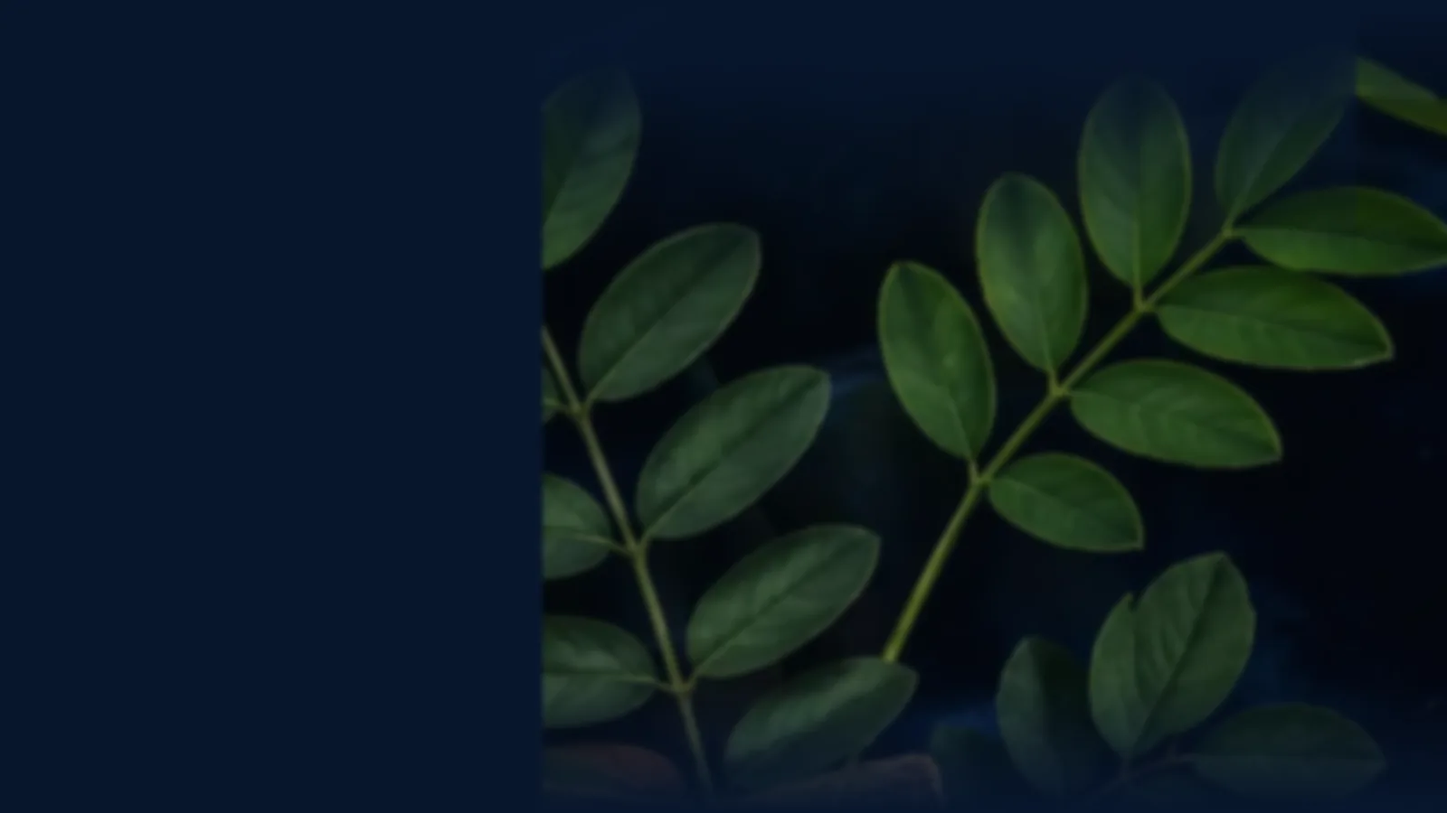
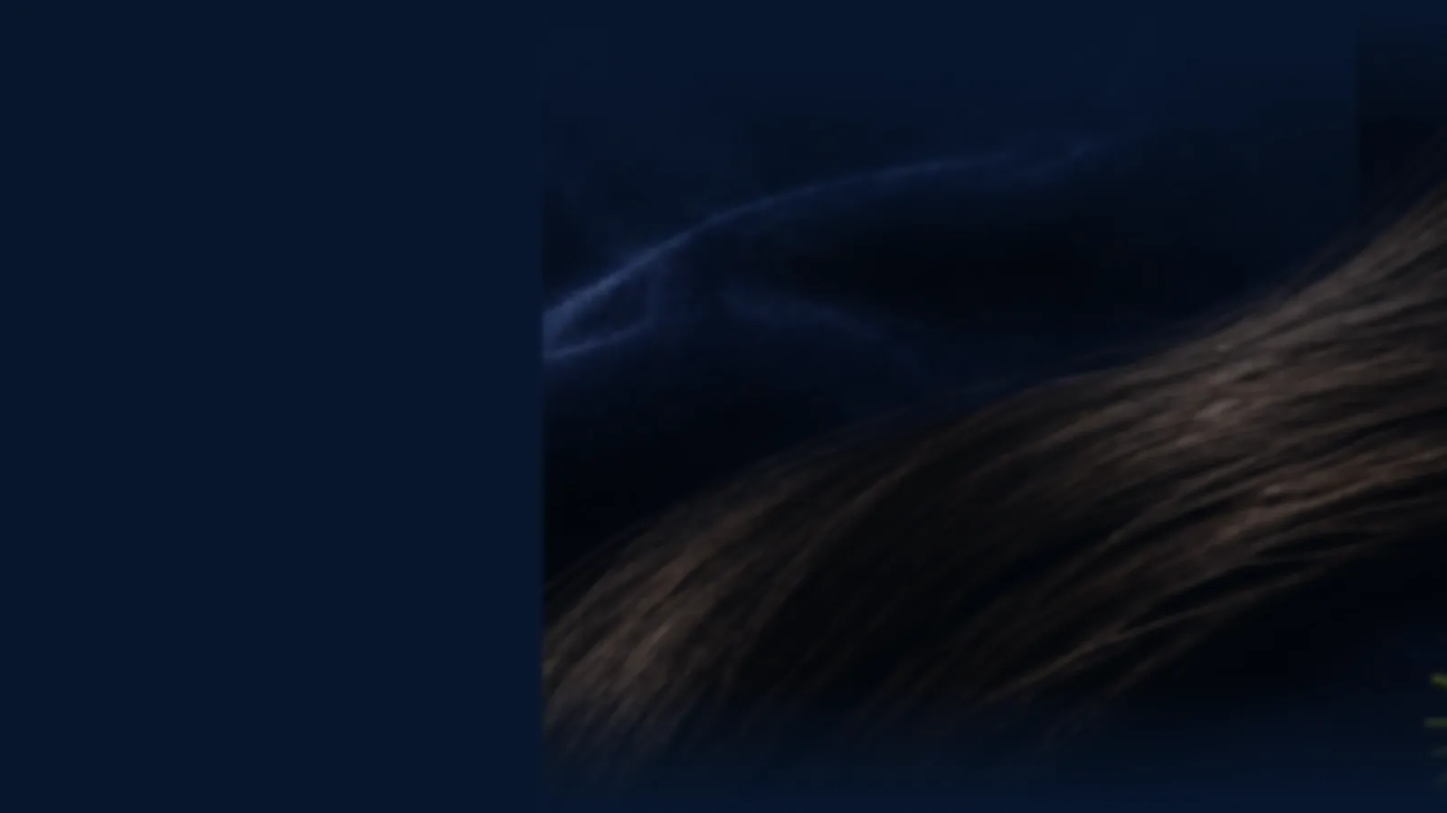
hair-scalp: убраны растения у семи блоков, Sunpure получил свой статус
Второй разбор Codex по 50121cf. Проверил каждый пункт сам, все верны.

1. Растение рядом с названием компании читается как связь этого сырья
   с этой компанией: пустой alt и оговорка в манифесте посетителю не
   видны. Раньше я убрал только солодку у DONGDONGGURIMOO и заменил
   бабчи у RNH BIO на цветы куркумы — то есть повторил ту же ошибку в
   меньшем масштабе. Теперь растения нет ни у одного из семи блоков:
   ампула и пипетка, золотой аппликатор, серебряный поднос с гребнем,
   пряди волос, волна волос, серебряный гребень, волосы на бархате.
   Куркума осталась только у Sunpure — у них в каталоге есть
   Tetrahydrocurcumin с Curcuma Longa (Turmeric) Rhizome и Turmeric Oil.

   Мастер для нейтральных вырезов нарисовал Codex, снят на том же синем
   бархате; лежит в его evidence и в сборку не попадает — скрипт ищет
   каталог вверх по дереву, чтобы работать и из worktree.

2. «Нет позиций» и «нет фотографий» — разные состояния, и путать их
   нельзя. У HEEYUL линия есть, состав не передан. У Sunpure в профиле
   37 позиций сырья в пяти линиях, нет только фотографий материалов.
   Добавлены ключи in_profile и no_shots во все одиннадцать локалей,
   счётчик без лишнего пробела в CJK.

Проверено: девять размеров включая 1920 — чисто; 11 локалей × 4 размера
= 44 из 44 чисто; витрина и главная не изменились против origin/main;
на 390 сняты начало, середина и конец каждого из восьми блоков —
в блоках без плашек разброс пикселей 27–65 против нуля у плоской заливки.

diff --git a/src/i18n/locales/ru.ts b/src/i18n/locales/ru.ts
@@ -427,6 +427,8 @@ export const ru = {
       lead_routine: "Четыре шага домашнего ухода",
       lead_pro: "Профессиональная линия",
       no_positions: "Позиции не опубликованы. Состав линии присылаем по запросу.",
+      in_profile: "позиций сырья в профиле",
+      no_shots: "Фотографии материалов не опубликованы. Спецификации подтверждаем по запросу.",
       articles_h: "Статьи по теме",
       art_overview: "Обзор направления",
       art_actives: "Действующие вещества",

diff --git a/src/i18n/locales/es.ts b/src/i18n/locales/es.ts
@@ -348,6 +348,8 @@ const es: DeepPartial<UIDict> = {
       lead_routine: "Cuatro pasos de la rutina en casa",
       lead_pro: "Línea profesional",
       no_positions: "Los productos no están publicados. Enviamos la composición de la línea a petición.",
+      in_profile: "posiciones de materia prima en el perfil",
+      no_shots: "Las fotos de los materiales no están publicadas. Confirmamos las especificaciones a petición.",
       articles_h: "Artículos relacionados",
       art_overview: "Panorama de la categoría",
       art_actives: "Ingredientes activos",

diff --git a/src/i18n/locales/fr.ts b/src/i18n/locales/fr.ts
@@ -309,6 +309,8 @@ const fr: DeepPartial<UIDict> = {
       lead_routine: "Quatre étapes de la routine à la maison",
       lead_pro: "Ligne professionnelle",
       no_positions: "Les produits ne sont pas publiés. Nous envoyons la composition de la ligne sur demande.",
+      in_profile: "positions de matières premières dans le profil",
+      no_shots: "Les photos des matières ne sont pas publiées. Nous confirmons les spécifications sur demande.",
       articles_h: "Articles liés",
       art_overview: "Panorama de la catégorie",
       art_actives: "Actifs",

diff --git a/src/i18n/locales/pt.ts b/src/i18n/locales/pt.ts
@@ -376,6 +376,8 @@ export const pt: UIDict = {
       lead_routine: "Quatro passos da rotina em casa",
       lead_pro: "Linha profissional",
       no_positions: "Os itens não estão publicados. Enviamos a composição da linha mediante pedido.",
+      in_profile: "posições de matéria-prima no perfil",
+      no_shots: "As fotos dos materiais não estão publicadas. Confirmamos as especificações mediante solicitação.",
       articles_h: "Artigos relacionados",
       art_overview: "Panorama da categoria",
       art_actives: "Ingredientes ativos",

diff --git a/src/i18n/locales/ja.ts b/src/i18n/locales/ja.ts
@@ -309,6 +309,8 @@ const ja: DeepPartial<UIDict> = {
       lead_routine: "ホームケアの四段階",
       lead_pro: "プロ向けライン",
       no_positions: "品目は公開されていません。ライン構成はご請求に応じてお送りします。",
+      in_profile: "件の原料をプロフィールに掲載",
+      no_shots: "原料の写真は公開していません。仕様はご請求により確認します。",
       articles_h: "関連記事",
       art_overview: "カテゴリー概観",
       art_actives: "有効成分",

diff --git a/src/i18n/locales/it.ts b/src/i18n/locales/it.ts
@@ -317,6 +317,8 @@ const it: DeepPartial<UIDict> = {
       lead_routine: "Quattro passaggi della routine a casa",
       lead_pro: "Linea professionale",
       no_positions: "I prodotti non sono pubblicati. Inviamo la composizione della linea su richiesta.",
+      in_profile: "posizioni di materie prime nel profilo",
+      no_shots: "Le foto dei materiali non sono pubblicate. Confermiamo le specifiche su richiesta.",
       articles_h: "Articoli correlati",
       art_overview: "Panoramica della categoria",
       art_actives: "Ingredienti attivi",

diff --git a/src/i18n/locales/de.ts b/src/i18n/locales/de.ts
@@ -317,6 +317,8 @@ const de: DeepPartial<UIDict> = {
       lead_routine: "Vier Schritte der Heimpflege",
       lead_pro: "Professionelle Linie",
       no_positions: "Die Produkte sind nicht veröffentlicht. Den Aufbau der Linie senden wir auf Anfrage.",
+      in_profile: "Rohstoffpositionen im Profil",
+      no_shots: "Fotos der Materialien sind nicht veröffentlicht. Spezifikationen bestätigen wir auf Anfrage.",
       articles_h: "Passende Beiträge",
       art_overview: "Überblick über die Kategorie",
       art_actives: "Wirkstoffe",

diff --git a/src/i18n/locales/ko.ts b/src/i18n/locales/ko.ts
@@ -363,6 +363,8 @@ export const ko: UIDict = {
       lead_routine: "홈케어 4단계",
       lead_pro: "전문가용 라인",
       no_positions: "품목은 공개되어 있지 않습니다. 라인 구성은 요청 시 보내 드립니다.",
+      in_profile: "개 원료 품목이 프로필에 있습니다",
+      no_shots: "원료 사진은 공개하지 않습니다. 사양은 요청 시 확인해 드립니다.",
       articles_h: "관련 자료",
       art_overview: "분야 개관",
       art_actives: "유효 성분",

diff --git a/src/i18n/locales/tr.ts b/src/i18n/locales/tr.ts
@@ -317,6 +317,8 @@ const tr: DeepPartial<UIDict> = {
       lead_routine: "Ev bakımının dört adımı",
       lead_pro: "Profesyonel seri",
       no_positions: "Ürünler yayımlanmadı. Seri içeriğini talep üzerine gönderiyoruz.",
+      in_profile: "hammadde kalemi profilde",
+      no_shots: "Malzeme fotoğrafları yayımlanmıyor. Spesifikasyonları talep üzerine teyit ediyoruz.",
       articles_h: "İlgili yazılar",
       art_overview: "Kategoriye genel bakış",
       art_actives: "Etken maddeler",

diff --git a/src/i18n/locales/en.ts b/src/i18n/locales/en.ts
@@ -376,6 +376,8 @@ export const en: UIDict = {
       lead_routine: "Four steps of the home routine",
       lead_pro: "Professional line",
       no_positions: "Items are not published. We send the line composition on request.",
+      in_profile: "raw-material positions in the profile",
+      no_shots: "Material photos are not published. We confirm specifications on request.",
       articles_h: "Related articles",
       art_overview: "Category overview",
       art_actives: "Active ingredients",

diff --git a/src/i18n/locales/zh.ts b/src/i18n/locales/zh.ts
@@ -317,6 +317,8 @@ const zh: DeepPartial<UIDict> = {
       lead_routine: "居家护理四步",
       lead_pro: "专业线",
       no_positions: "品项尚未公开。产品线构成可应要求索取。",
+      in_profile: "项原料收录于档案",
+      no_shots: "原料照片未公开。规格可应要求确认。",
       articles_h: "相关文章",
       art_overview: "品类综述",
       art_actives: "活性成分",

diff --git a/docs/IMAGERY-MANIFEST.md b/docs/IMAGERY-MANIFEST.md
@@ -12,13 +12,13 @@
 | `hair-1600.webp`, `hair-900.webp` | `generated-editorial` | там же, мастер `hair-care-desktop-codex-v1.png`, SHA-256 `b5138498…09365b` | вход в подборку «Волосы и кожа головы» |
 | `oemline-1600.webp`, `oemline-900.webp` | `generated-editorial` | там же, мастер `oem-odm-desktop-codex-v1.png`, SHA-256 `35aa02b0…3860f856` | общий рассказ о контрактном производстве. **Нельзя** подписывать как завод или лабораторию конкретного поставщика |
 | `brands.webp`, `pro.webp`, `actives.webp`, `packaging.webp`, `care.webp`, `launch.webp` | `official-derived` | мозаика из настоящих снимков товара поставщиков, собирается `scripts/beauty-scenes.mjs` из `public/img/suppliers` | фон раздела. Кадры настоящие, но смешаны из разных компаний, поэтому подписывать конкретной маркой нельзя |
-| `company-ck-regeon.webp` (21 KB, SHA-256 `a8151bfe6717…`) | `generated-editorial` | вырез из `hair-1600.webp`: поднос с ампулой и пипеткой | подложка блока компании на `/catalog/hair-scalp/`. **Нельзя** подписывать как съёмку этой компании, её товара или её производства |
+| `company-ck-regeon.webp` (19 KB, SHA-256 `bf2c52abc2f3…`) | `generated-editorial` | вырез из `hair-1600.webp`: ампула и пипетка | подложка блока компании на `/catalog/hair-scalp/`. **Нельзя** подписывать как съёмку этой компании, её товара или её производства |
 | `company-dongdonggurimoo.webp` (20 KB, SHA-256 `790b7cee7e21…`) | `generated-editorial` | вырез из `hair-1600.webp`: серебряный поднос и гребень | подложка блока компании на `/catalog/hair-scalp/`. **Нельзя** подписывать как съёмку этой компании, её товара или её производства |
-| `company-dreamcos.webp` (18 KB, SHA-256 `5068c6bf994a…`) | `generated-editorial` | вырез из `licorice-900.webp`: зелёные листья | подложка блока компании на `/catalog/hair-scalp/`. **Нельзя** подписывать как съёмку этой компании, её товара или её производства |
-| `company-hanscos.webp` (12 KB, SHA-256 `6c61de3dfc5b…`) | `generated-editorial` | вырез из `hair-1600.webp`: розмарин на бархате | подложка блока компании на `/catalog/hair-scalp/`. **Нельзя** подписывать как съёмку этой компании, её товара или её производства |
-| `company-rnh-bio.webp` (17 KB, SHA-256 `6a3291a0bfa1…`) | `generated-editorial` | вырез из `turmeric-900.webp`: цветы и листья, без корня | подложка блока компании на `/catalog/hair-scalp/`. **Нельзя** подписывать как съёмку этой компании, её товара или её производства |
-| `company-sante.webp` (13 KB, SHA-256 `b03367fd61b6…`) | `generated-editorial` | вырез из `hair-1600.webp`: волна волос | подложка блока компании на `/catalog/hair-scalp/`. **Нельзя** подписывать как съёмку этой компании, её товара или её производства |
-| `company-skinroom.webp` (24 KB, SHA-256 `6151fbe1e8da…`) | `generated-editorial` | вырез из `babchi-900.webp`: золотой папоротник | подложка блока компании на `/catalog/hair-scalp/`. **Нельзя** подписывать как съёмку этой компании, её товара или её производства |
+| `company-dreamcos.webp` (14 KB, SHA-256 `6dc286ca6e06…`) | `generated-editorial` | вырез из `hair-editorial-alternate-codex-v1.png`: пряди волос | подложка блока компании на `/catalog/hair-scalp/`. **Нельзя** подписывать как съёмку этой компании, её товара или её производства |
+| `company-hanscos.webp` (20 KB, SHA-256 `23efadd53248…`) | `generated-editorial` | вырез из `hair-editorial-alternate-codex-v1.png`: серебряный гребень | подложка блока компании на `/catalog/hair-scalp/`. **Нельзя** подписывать как съёмку этой компании, её товара или её производства |
+| `company-rnh-bio.webp` (17 KB, SHA-256 `c58714251be4…`) | `generated-editorial` | вырез из `hair-editorial-alternate-codex-v1.png`: золотой аппликатор для кожи головы | подложка блока компании на `/catalog/hair-scalp/`. **Нельзя** подписывать как съёмку этой компании, её товара или её производства |
+| `company-sante.webp` (11 KB, SHA-256 `26dfe041b213…`) | `generated-editorial` | вырез из `hair-1600.webp`: волна волос | подложка блока компании на `/catalog/hair-scalp/`. **Нельзя** подписывать как съёмку этой компании, её товара или её производства |
+| `company-skinroom.webp` (10 KB, SHA-256 `ddabd0afee02…`) | `generated-editorial` | вырез из `hair-editorial-alternate-codex-v1.png`: волосы на бархате | подложка блока компании на `/catalog/hair-scalp/`. **Нельзя** подписывать как съёмку этой компании, её товара или её производства |
 | `company-sunpure.webp` (26 KB, SHA-256 `6dae7d47d7ff…`) | `generated-editorial` | вырез из `turmeric-900.webp`: корень куркумы | подложка блока компании на `/catalog/hair-scalp/`. **Нельзя** подписывать как съёмку этой компании, её товара или её производства |
 | `hair-shelf-a.webp` (SHA-256 `11bc21232c18…`), `hair-shelf-b.webp` (SHA-256 `df30800022f4…`) | `official-derived` | мозаика из настоящих снимков средств для волос и кожи головы **шести из восьми** компаний подборки — CK REGEON, DREAMCOS, HANSCOS, RNH BIO, SANTE, SkinRoom; собирается `scripts/hair-scenes.mjs`, список кадров перечислен в самом скрипте. Подтверждённых снимков по волосам у DONGDONGGURIMOO и Sunpure нет, и в этих мозаиках их нет | фон разделов страницы `/catalog/hair-scalp/`. Кадры настоящие, но смешаны из разных компаний, поэтому подписывать конкретной маркой нельзя |
 
@@ -44,28 +44,37 @@
 Требование Антона от 07.09.2026: «не должны быть одни и те же фото на заднем
 фоне» — общий кадр на восемь блоков подряд читается как повтор.
 
-Источник у всех восьми — наши же редакционные мастера: постановка с волосами
-`hair-1600.webp` и три ботанических кадра сырья. Все четыре сняты на одном и том
-же синем бархате, поэтому кадры разные, а серия одна.
+Источник — четыре наших редакционных мастера, снятых на одном и том же синем
+бархате: постановка с волосами `hair-1600.webp`, три ботанических кадра сырья и
+`hair-editorial-alternate-codex-v1.png` (нарисован Codex 07.09.2026 специально
+под эту задачу, SHA-256 `637c10de6f94…4567a03`, хранится в
+`AI_COORDINATION/Codex/evidence/T-20260907-010/` и в сборку не попадает).
+Кадры разные, серия одна.
 
-**Правило соответствия.** Узнаваемое сырьё за блоком компании допускается только
-там, где оно подтверждено данными самой компании. Такой случай один: Sunpure —
-куркума, у них в каталоге прямо есть tetrahydrocurcumin и turmeric oil. За
-остальными блоками стоят нейтральные сюжеты: инструмент, волосы, бархат,
-декоративная листва, золочёный папоротник.
+**Правило соответствия.** Узнаваемое растение рядом с названием компании
+читается как связь этого сырья с этой компанией: пустой `alt` и оговорка в
+манифесте посетителю не видны. Поэтому растение допускается только там, где
+связь подтверждена опубликованными данными самой компании.
 
-Правило появилось после разбора Codex 07.09.2026. За блоком DONGDONGGURIMOO
-стоял корень солодки: я вывел его из фразы про корейскую фитотерапию в описании
-линии HEEYUL. Солодки в данных компании нет ни в каком виде, а на экране корень
-занимал половину именно её блока — то есть моя догадка читалась как факт о
-компании. По той же причине заменён кадр за RNH BIO: семена бабчи — узнаваемое
-сырьё, которого в их данных нет.
+Такой случай один: **Sunpure — куркума.** В `sunpure.catalog.json` есть
+`Tetrahydrocurcumin` с `Curcuma Longa (Turmeric) Rhizome` и `Turmeric Oil`.
+
+За остальными семью блоками — предметы и текстуры по теме страницы: ампула,
+пипетка, серебряный гребень, золотой аппликатор для кожи головы, пряди волос,
+волна волос, бархат. Ни один не утверждает ничего о компании.
+
+Правило появилось в три захода, и каждый раз я ошибался в одну сторону.
+Сначала за DONGDONGGURIMOO стоял корень солодки — я вывел его из фразы про
+корейскую фитотерапию, хотя солодки в данных компании нет. Затем за RNH BIO
+стояли семена бабчи, потом цветы куркумы — та же ошибка меньшего масштаба.
+Codex 07.09.2026 потребовал убрать растения у всех семи блоков, и это верно:
+половинчатая мера здесь не работает.
 
 Почему не товар самой компании: первая версия собиралась из снимков её товара.
-На бархате они читались серой плитой — у товарной съёмки светлый фон, и размытие
-превращает его в прямоугольник без сюжета. Отдельно: стена товара за блоком
-компании читается как заявление о размере её ассортимента, а такого утверждения
-мы не делали. Кадры декоративные, `alt` пустой.
+На бархате они читались серой плитой — у товарной съёмки светлый фон, и
+размытие превращает его в прямоугольник без сюжета. Отдельно: стена товара за
+блоком компании читается как заявление о размере её ассортимента, а такого
+утверждения мы не делали. Кадры декоративные, `alt` пустой.
 
 ## Почему у страницы волос отдельные сцены
 
